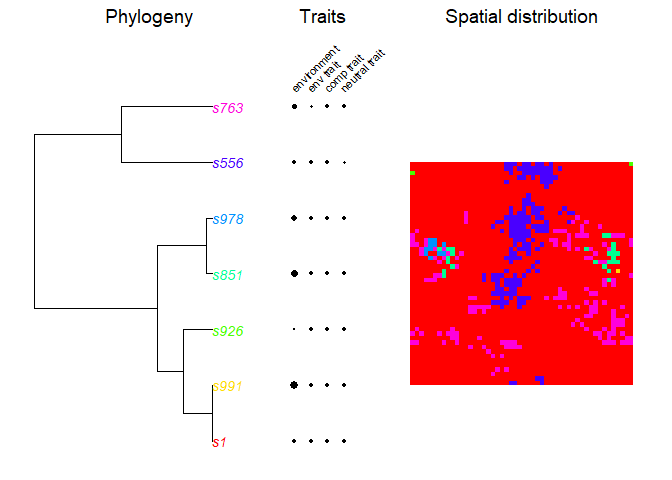
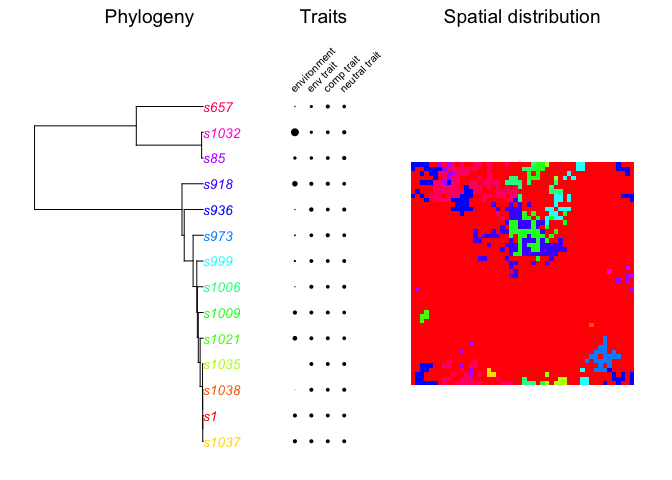
update readme.md

diff --git a/README.md b/README.md
@@ -1,4 +1,14 @@
-# EcoPhyloSim
+---
+title: "EcoPhyloSim"
+author: "Florian Hartig"
+date: "2024-07-19"
+output: 
+  html_document: 
+    keep_md: yes
+---
+
+
+
 
 A model, provided as an R package, for the simulation of spatially explicit biogeographical and phylogenetic data. 
 
@@ -7,9 +17,9 @@ A model, provided as an R package, for the simulation of spatially explicit biog
 You can install directly from gh, using the 'devtools' package:
 
 
-```r
-devtools::install_github(repo = "TheoreticalEcology/EcoPhyloSim/", 
-                         subdir = "phylosim",  
+``` r
+devtools::install_github(repo = "TheoreticalEcology/EcoPhyloSim", 
+                         subdir = "PhyloSim",  
                          dependencies = T, 
                          build_vignettes = T)
 
@@ -21,7 +31,8 @@ browseVignettes("PhyloSim")
 
 
 
-```r
+``` r
+set.seed(123)
 library(PhyloSim)
 
 # Define a parameter set
@@ -33,17 +44,17 @@ simu <- runSimulation(par)
 ```
 
 ```
-## [1] "Core simulation finished after 0 minute(s) and 1.71 second(s). Converting data"
+## [1] "Core simulation finished after 0 minute(s) and 0.265 second(s). Converting data"
 ## done!
 ```
 
-```r
+``` r
 plot(simu)
 ```
 
 ![](Readme_files/figure-html/unnamed-chunk-2-1.png)<!-- -->
 
-```r
+``` r
 #Look at the species area relation
 sac(simu, rep = 100, plot= TRUE)
 ```
@@ -52,15 +63,15 @@ sac(simu, rep = 100, plot= TRUE)
 
 ```
 ##    size sr.Mean sr.UpperCI sr.LowerCI
-## 1     4    1.38       2.00       1.00
-## 2    49    1.95       3.00       1.00
-## 3   144    2.75       4.05       1.95
-## 4   324    3.35       5.00       2.00
-## 5   529    4.06       6.00       3.00
-## 6   784    4.58       6.00       3.00
-## 7  1156    5.49       7.00       4.00
-## 8  1521    5.92       7.00       4.00
-## 9  1936    6.45       7.00       5.00
-## 10 2500    7.00       7.00       7.00
+## 1     4    1.31       2.05       1.00
+## 2    49    2.20       4.00       1.00
+## 3   144    3.24       6.00       1.00
+## 4   324    4.85       7.00       2.00
+## 5   529    6.43       8.00       4.00
+## 6   784    8.42      11.00       5.00
+## 7  1156   10.64      13.00       8.95
+## 8  1521   12.13      13.05      11.00
+## 9  1936   13.11      14.00      12.00
+## 10 2500   14.00      14.00      14.00
 ```
 